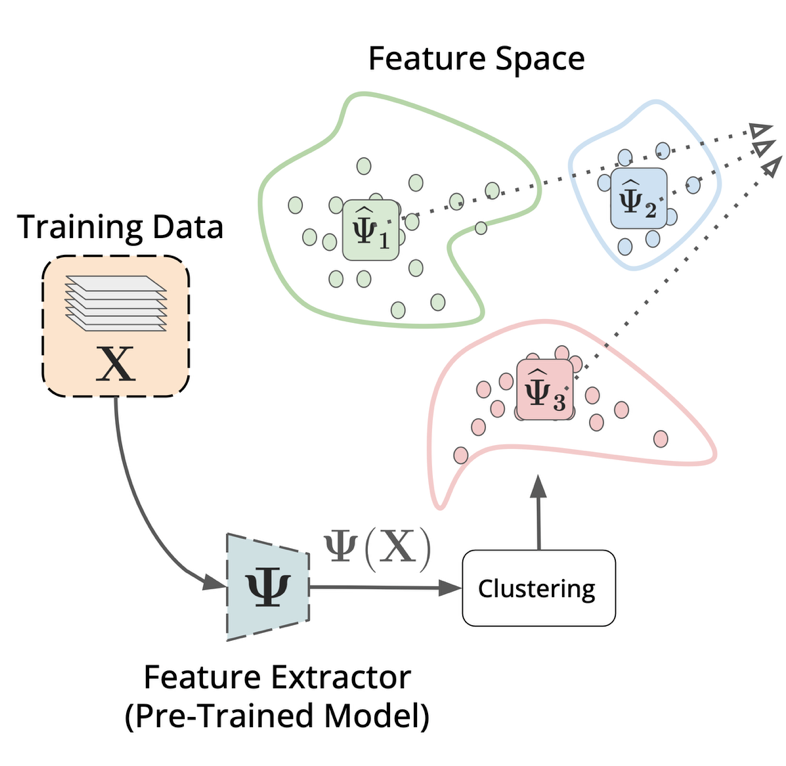
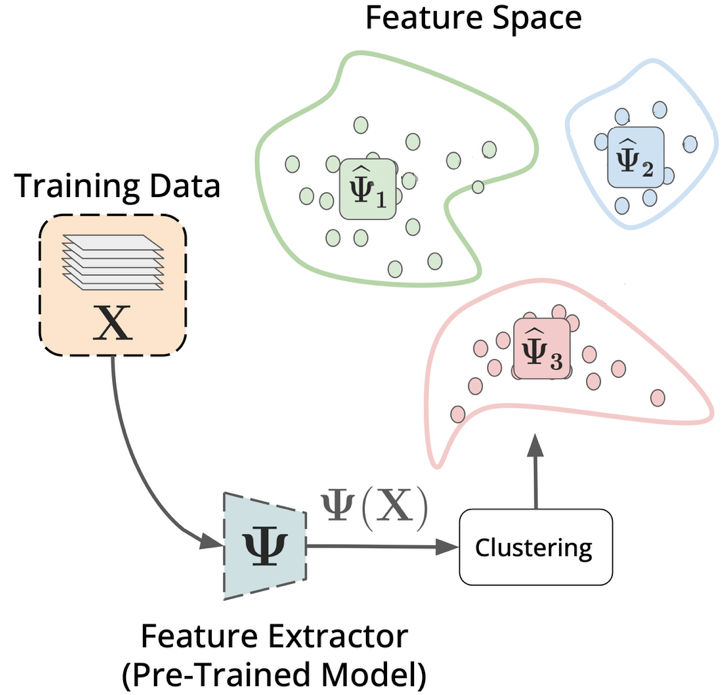
Updated figure, started on TL

diff --git a/report/related_work.tex b/report/related_work.tex
@@ -70,10 +70,10 @@ This hierachy show why shallow layers are often more domain-specific, as they ar
 
 
 Fature representations derived from CNNs, ofter form domain-specific clusters in the latent space. This in particular is problematic for Domain Generalization, where the models needs to learn representations that are invariant to such domain cues.
-\begin{figure}[ht]
+\begin{figure}[!htb]
     \centering
-    \includegraphics[width=0.85\textwidth]{images/Pipeline-Feature_Space.png}
-    \caption{A model pipeline showing input images from different domains processed by a pretrained feature extractor, producing clustered representations in feature space. Image from \cite{thomasWhatsLatentLeveraging2025}.}
+    \includegraphics[height=0.25\textheight]{images/Pipeline-Feature_Space.png}
+    \caption{A model pipeline showing input images from different domains processed by a pretrained feature extractor, producing clustered representations in feature space. Image from \cite{thomasWhatsLatentLeveraging2025}, modified.}
     \label{fig:Pipeline_Feature_Space}
 \end{figure}
 
@@ -83,7 +83,7 @@ One effective way to address this issue is by utilising transfer learning, by re
 
 \subsection{Transfer Learning}
 
-While Transfer Learning is a concept that is independent of Domain Generalization, it may come useful in the context of Domain Generalization, by the use of pre-trained models. Pretrained models pretrained on large datasets, such as ImageNet, come with rich information about low level features, such as edges, textures, etc. These features can be transferred to the target task or domain, utilizing the pre-trained model as a feature extractor.  
+Transfer Learning refers to the reuse of models trained on large-scale datasets, such as ImageNet, to improve performance and generalization in related tasks. While Transfer Learning is a concept that is independent of Domain Generalization, it may come useful in the context of Domain Generalization. With CNNs providing a robust feature extraction backbone.
 
 
 \subsection{Freezing}
